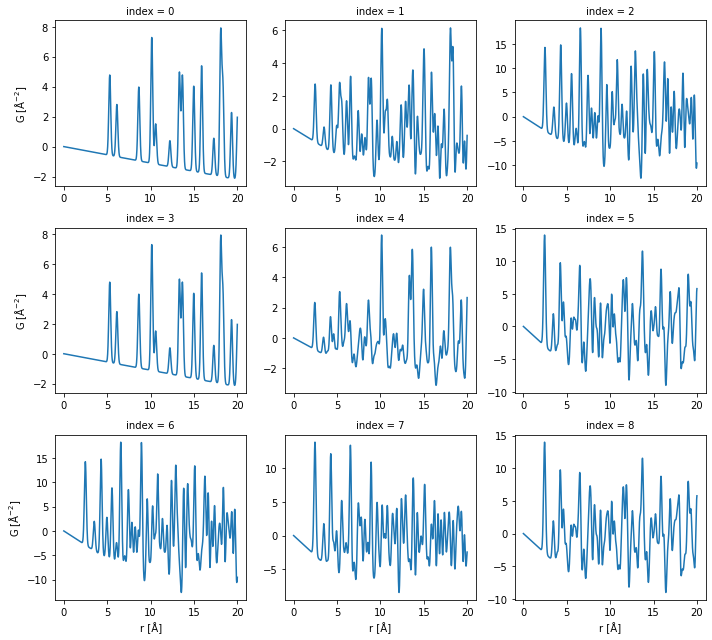
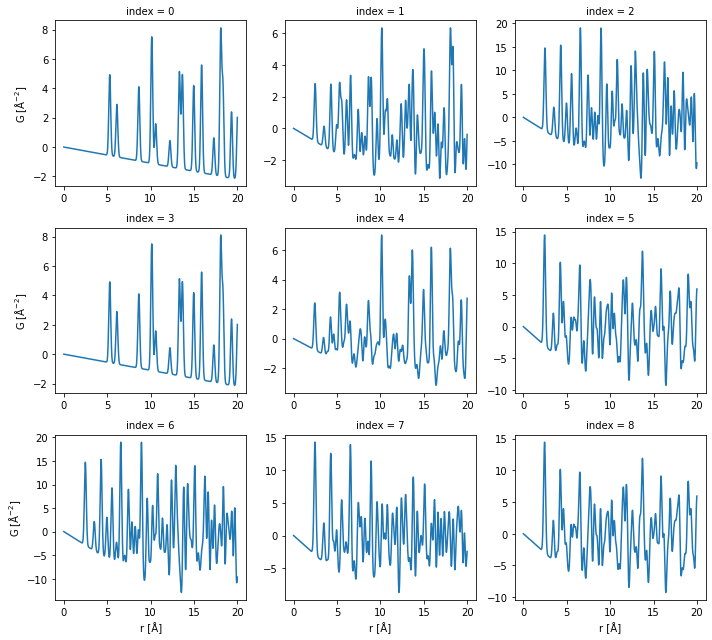
deploy: 479079cbdf4f4bb80774868c18505b342394726d

diff --git a/usage_cli.html b/usage_cli.html
@@ -7,7 +7,7 @@
   
   <meta name="viewport" content="width=device-width, initial-scale=1.0" />
   
-  <title>Usage of the CLI &mdash; PDFmix 0.post1+g3d44a29 documentation</title>
+  <title>Usage of the CLI &mdash; PDFmix 0.post1+g479079c documentation</title>
   
 
   
@@ -71,7 +71,7 @@
             
             
               <div class="version">
-                0.post1+g3d44a29
+                0.post1+g479079c
               </div>
             
           
@@ -230,7 +230,7 @@ single phase PDF calculation.</p>
  <span class="s1">&#39;delta2&#39;</span><span class="p">:</span> <span class="p">[</span><span class="mf">0.0</span><span class="p">],</span>
  <span class="s1">&#39;fracs&#39;</span><span class="p">:</span> <span class="p">[[</span><span class="mf">1.0</span><span class="p">]],</span>
  <span class="s1">&#39;ftype&#39;</span><span class="p">:</span> <span class="s1">&#39;molar&#39;</span><span class="p">,</span>
- <span class="s1">&#39;iso_adp&#39;</span><span class="p">:</span> <span class="p">[</span><span class="mf">0.5</span><span class="p">],</span>
+ <span class="s1">&#39;iso_adp&#39;</span><span class="p">:</span> <span class="p">[</span><span class="mf">0.006</span><span class="p">],</span>
  <span class="s1">&#39;lat_scale&#39;</span><span class="p">:</span> <span class="p">[</span><span class="mf">1.0</span><span class="p">],</span>
  <span class="s1">&#39;qbroad&#39;</span><span class="p">:</span> <span class="p">[</span><span class="mf">0.0</span><span class="p">],</span>
  <span class="s1">&#39;qdamp&#39;</span><span class="p">:</span> <span class="p">[</span><span class="mf">0.0</span><span class="p">],</span>
@@ -304,11 +304,11 @@ single phase PDF calculation.</p>
 <p>The line below shows how to calculate PDFs from a folder “./cifs” of CIF
 files using the default configuration and save the results in the
 “./pdfs1” folder.</p>
-<div class="highlight-ipython3 notranslate"><div class="highlight"><pre><span></span><span class="o">!</span> pdfmix create <span class="s2">&quot;./pdfs1&quot;</span> <span class="s2">&quot;./cifs&quot;</span>
+<div class="highlight-ipython3 notranslate"><div class="highlight"><pre><span></span><span class="o">!</span> pdfmix create <span class="s2">&quot;./pdfs1&quot;</span> <span class="s2">&quot;./cifs&quot;</span> --iso_adp<span class="o">=</span><span class="s2">&quot;[0.006]&quot;</span>
 </pre></div>
 </div>
 <div class="highlight-default notranslate"><div class="highlight"><pre><span></span>Find 3 files in the input directory. Choose 1 files to create a mixture phase. For each mixture, there are 1 sets of fractions, 1 structure parameter sets, 1 calculation parameter sets. In total, there are 3 PDFs to calculate.
-Progress: 100%|███████████████████████████████████| 3/3 [00:00&lt;00:00,  3.49it/s]
+Progress: 100%|███████████████████████████████████| 3/3 [00:00&lt;00:00,  7.03it/s]
 </pre></div>
 </div>
 <p>The line below lists the generated PDF data files. There are three
@@ -333,11 +333,11 @@ Coordinates:
   * r          (r) float64 0.0 0.01 0.02 0.03 0.04 ... 19.96 19.97 19.98 19.99
   * phase      (phase) int32 0
 Data variables:
-    G          (r) float64 0.0 -0.001102 -0.002204 ... 1.565 1.769 1.957
+    G          (r) float64 0.0 -0.001102 -0.002204 ... 1.611 1.825 2.021
     structure  (phase) object &quot;# generated using pymatgenndata_Csn_symmetry...
     fname      (phase) object 'Cs'
     fraction   (phase) float64 1.0
-    iso_adp    float64 0.5
+    iso_adp    float64 0.006
     lat_scale  float64 1.0
     rmin       float64 0.0
     rmax       float64 20.0
@@ -378,7 +378,7 @@ PDF. Then, there should be 9 PDF calculated in total.</p>
 </pre></div>
 </div>
 <div class="highlight-default notranslate"><div class="highlight"><pre><span></span>Find 3 files in the input directory. Choose 2 files to create a mixture phase. For each mixture, there are 3 sets of fractions, 1 structure parameter sets, 1 calculation parameter sets. In total, there are 9 PDFs to calculate.
-Progress: 100%|███████████████████████████████████| 9/9 [00:02&lt;00:00,  4.26it/s]
+Progress: 100%|███████████████████████████████████| 9/9 [00:01&lt;00:00,  8.52it/s]
 </pre></div>
 </div>
 <p>Here, we show the PDFs. Each row is a combination of phase and each
@@ -406,11 +406,11 @@ different sets of molar fractions and for each set, we will use
 different “is_adp” and “qmax”. There are two “iso_adp” and two “qmax” to
 use. In total, we will have 2 <span class="math notranslate nohighlight">\(\times\)</span> 2 <span class="math notranslate nohighlight">\(\times\)</span> 2 = 8
 PDFs.</p>
-<div class="highlight-ipython3 notranslate"><div class="highlight"><pre><span></span><span class="o">!</span> pdfmix create <span class="s2">&quot;./pdfs3&quot;</span> <span class="s2">&quot;./cifs&quot;</span> --fracs<span class="o">=</span><span class="s2">&quot;[[0.2,0.6,0.2],[0.4,0.2,0.4]]&quot;</span> --iso_adp<span class="o">=</span><span class="s2">&quot;[0.4,1.6]&quot;</span> --qmax<span class="o">=</span><span class="s2">&quot;[20.0,40.0]&quot;</span>
+<div class="highlight-ipython3 notranslate"><div class="highlight"><pre><span></span><span class="o">!</span> pdfmix create <span class="s2">&quot;./pdfs3&quot;</span> <span class="s2">&quot;./cifs&quot;</span> --fracs<span class="o">=</span><span class="s2">&quot;[[0.2,0.6,0.2],[0.4,0.2,0.4]]&quot;</span> --iso_adp<span class="o">=</span><span class="s2">&quot;[0.004,0.036]&quot;</span> --qmax<span class="o">=</span><span class="s2">&quot;[20.0,40.0]&quot;</span>
 </pre></div>
 </div>
 <div class="highlight-default notranslate"><div class="highlight"><pre><span></span>Find 3 files in the input directory. Choose 3 files to create a mixture phase. For each mixture, there are 2 sets of fractions, 2 structure parameter sets, 2 calculation parameter sets. In total, there are 8 PDFs to calculate.
-Progress: 100%|███████████████████████████████████| 8/8 [00:05&lt;00:00,  1.55it/s]
+Progress: 100%|███████████████████████████████████| 8/8 [00:01&lt;00:00,  6.04it/s]
 </pre></div>
 </div>
 <p>Here, we show the PDFs. One row is the a combination of molar fractions.
@@ -444,7 +444,7 @@ inside to create our own configuration.</p>
 <span class="o">-</span> <span class="o">-</span> <span class="mf">1.0</span>
 <span class="n">ftype</span><span class="p">:</span> <span class="n">molar</span>
 <span class="n">iso_adp</span><span class="p">:</span>
-<span class="o">-</span> <span class="mf">0.5</span>
+<span class="o">-</span> <span class="mf">0.006</span>
 <span class="n">lat_scale</span><span class="p">:</span>
 <span class="o">-</span> <span class="mf">1.0</span>
 <span class="n">rmin</span><span class="p">:</span>
@@ -473,7 +473,7 @@ command. Here, in this example, we didn’t change any parameters.</p>
 </pre></div>
 </div>
 <div class="highlight-default notranslate"><div class="highlight"><pre><span></span>Find 3 files in the input directory. Choose 1 files to create a mixture phase. For each mixture, there are 1 sets of fractions, 1 structure parameter sets, 1 calculation parameter sets. In total, there are 3 PDFs to calculate.
-Progress: 100%|███████████████████████████████████| 3/3 [00:00&lt;00:00,  6.80it/s]
+Progress: 100%|███████████████████████████████████| 3/3 [00:00&lt;00:00,  8.78it/s]
 </pre></div>
 </div>
 <p>As we expect, the results are the same as the first run we made in the

diff --git a/searchindex.js b/searchindex.js
@@ -1,1 +1,1 @@
-Search.setIndex({docnames:["index","installation","min_versions","usage_cli"],envversion:{"sphinx.domains.c":2,"sphinx.domains.changeset":1,"sphinx.domains.citation":1,"sphinx.domains.cpp":4,"sphinx.domains.index":1,"sphinx.domains.javascript":2,"sphinx.domains.math":2,"sphinx.domains.python":3,"sphinx.domains.rst":2,"sphinx.domains.std":2,"sphinx.ext.intersphinx":1,"sphinx.ext.viewcode":1,sphinx:56},filenames:["index.rst","installation.rst","min_versions.rst","usage_cli.rst"],objects:{},objnames:{},objtypes:{},terms:{"0":3,"00":3,"001102":3,"002204":3,"01":3,"02":3,"03":3,"04":3,"05":3,"0m":3,"1":3,"100":3,"19":3,"1m":3,"1mdescript":3,"1mflag":3,"1mname":3,"1mnote":3,"1mposit":3,"1msynopsi":3,"2":[2,3],"20":3,"2000":3,"24":2,"26it":3,"29":2,"3":[2,3],"4":3,"40":3,"42":2,"49it":3,"4mconfig_fil":3,"4minput_directori":3,"4minput_pattern":3,"4moutput_directori":3,"4moutput_pattern":3,"5":3,"55it":3,"565":3,"6":3,"769":3,"8":3,"80it":3,"9":3,"957":3,"96":3,"97":3,"98":3,"99":3,"case":0,"default":3,"function":3,"import":3,"long":3,A:3,As:3,At:[1,3],For:3,If:3,In:3,One:3,The:[2,3],Then:3,There:3,Theses:3,To:3,accept:3,accord:3,add:3,addit:3,adjust:2,all:[2,3],also:3,alwai:2,an:3,ani:3,ar:3,argument:3,artifact:2,assum:3,bash:3,becaus:3,below:3,binari:2,built:2,calcul:3,can:3,cat:3,certain:3,chang:3,choos:3,cif:3,cli:0,coeffici:3,col:3,col_wrap:3,collect:3,column:3,combin:3,command:[1,3],concat:3,condit:3,config_fil:3,configur:0,consist:2,contain:3,coordin:3,core:3,correspond:3,creat:0,crystal:3,cs:3,d:3,data:3,dataset:3,date:2,defin:3,delet:3,delta1:3,delta2:3,demonstr:3,didn:3,differ:0,dim:3,dimens:3,directori:3,don:3,done:3,ds0:3,ds:3,dump:3,each:3,everi:2,exampl:3,expect:3,fals:3,fe:3,file:0,find:3,first:3,flag:3,float64:3,fname:3,folder:3,format:3,four:3,frac:3,fraction:3,from:3,ftype:3,g:3,gener:3,get:3,give:3,glob:3,have:[2,3],here:3,higher:2,how:3,i:3,inconveni:3,index:3,individu:3,initi:2,input_directori:3,input_pattern:3,insid:3,instal:0,int32:3,interfac:3,introduct:0,is_adp:3,iso_adp:3,kei:3,know:3,lat_scal:3,latest:2,layer:3,least:2,line:[1,3],linear:3,list:3,load:3,load_dataset:3,locat:3,loop:3,ls:3,made:3,major:2,matrix:2,mean:3,minimum:0,minor:2,mixtur:0,modul:3,molar:3,month:2,multipl:3,name:3,nc:3,nep:2,netcdf:3,never:2,ni:3,none:3,number:3,numpi:0,object:3,oldest:2,onc:3,one:3,onli:3,our:3,output_pattern:3,own:3,pair:3,paramet:0,patch:2,path:3,pattern:3,pdf:0,pdfmix:[1,3],pdfs1:3,pdfs2:3,pdfs3:3,pdfs4:3,phase:0,pip:1,plan:2,plot:3,posit:3,print:3,prior:2,prioriti:3,progress:3,project:2,provid:3,pymatgenndata_csn_symmetri:3,python:[0,3],python_requir:2,qbroad:3,qdamp:3,qmax:3,qmin:3,r:3,rang:3,read:3,releas:2,result:3,rmax:3,rmin:3,row:3,rstep:3,run:3,s:3,same:3,save:3,search:3,set:[2,3],setup:2,sharei:3,sharex:3,shell:3,should:[2,3],show:3,simpl:3,singl:0,so:3,sourc:3,specifi:3,start:3,still:3,store:3,string:3,structur:3,style:3,support:2,syntax:3,t:3,test:2,thei:3,thi:[2,3],three:3,time:3,togeth:3,total:3,two:3,type:3,updat:3,upward:2,us:0,usag:0,user:3,valu:3,variabl:3,verbos:3,version:0,visual:3,we:3,what:3,where:3,which:3,whichev:2,write:3,xarrai:3,xr:3,yaml:3,you:3},titles:["PDFmix Documentation","Installation","Minimum Version of Python and NumPy","Usage of the CLI"],titleterms:{"case":3,cli:3,configur:3,creat:3,differ:3,document:0,file:3,help:3,input:3,instal:1,introduct:3,minimum:2,mixtur:3,numpi:2,output:3,paramet:3,pdf:3,pdfmix:0,phase:3,python:2,simul:3,singl:3,us:3,usag:3,version:2}})
+Search.setIndex({docnames:["index","installation","min_versions","usage_cli"],envversion:{"sphinx.domains.c":2,"sphinx.domains.changeset":1,"sphinx.domains.citation":1,"sphinx.domains.cpp":4,"sphinx.domains.index":1,"sphinx.domains.javascript":2,"sphinx.domains.math":2,"sphinx.domains.python":3,"sphinx.domains.rst":2,"sphinx.domains.std":2,"sphinx.ext.intersphinx":1,"sphinx.ext.viewcode":1,sphinx:56},filenames:["index.rst","installation.rst","min_versions.rst","usage_cli.rst"],objects:{},objnames:{},objtypes:{},terms:{"0":3,"00":3,"001102":3,"002204":3,"004":3,"006":3,"01":3,"02":3,"021":3,"03":3,"036":3,"03it":3,"04":3,"04it":3,"0m":3,"1":3,"100":3,"19":3,"1m":3,"1mdescript":3,"1mflag":3,"1mname":3,"1mnote":3,"1mposit":3,"1msynopsi":3,"2":[2,3],"20":3,"2000":3,"24":2,"29":2,"3":[2,3],"4":3,"40":3,"42":2,"4mconfig_fil":3,"4minput_directori":3,"4minput_pattern":3,"4moutput_directori":3,"4moutput_pattern":3,"5":3,"52it":3,"6":3,"611":3,"7":3,"78it":3,"8":3,"825":3,"9":3,"96":3,"97":3,"98":3,"99":3,"case":0,"default":3,"function":3,"import":3,"long":3,A:3,As:3,At:[1,3],For:3,If:3,In:3,One:3,The:[2,3],Then:3,There:3,Theses:3,To:3,accept:3,accord:3,add:3,addit:3,adjust:2,all:[2,3],also:3,alwai:2,an:3,ani:3,ar:3,argument:3,artifact:2,assum:3,bash:3,becaus:3,below:3,binari:2,built:2,calcul:3,can:3,cat:3,certain:3,chang:3,choos:3,cif:3,cli:0,coeffici:3,col:3,col_wrap:3,collect:3,column:3,combin:3,command:[1,3],concat:3,condit:3,config_fil:3,configur:0,consist:2,contain:3,coordin:3,core:3,correspond:3,creat:0,crystal:3,cs:3,d:3,data:3,dataset:3,date:2,defin:3,delet:3,delta1:3,delta2:3,demonstr:3,didn:3,differ:0,dim:3,dimens:3,directori:3,don:3,done:3,ds0:3,ds:3,dump:3,each:3,everi:2,exampl:3,expect:3,fals:3,fe:3,file:0,find:3,first:3,flag:3,float64:3,fname:3,folder:3,format:3,four:3,frac:3,fraction:3,from:3,ftype:3,g:3,gener:3,get:3,give:3,glob:3,have:[2,3],here:3,higher:2,how:3,i:3,inconveni:3,index:3,individu:3,initi:2,input_directori:3,input_pattern:3,insid:3,instal:0,int32:3,interfac:3,introduct:0,is_adp:3,iso_adp:3,kei:3,know:3,lat_scal:3,latest:2,layer:3,least:2,line:[1,3],linear:3,list:3,load:3,load_dataset:3,locat:3,loop:3,ls:3,made:3,major:2,matrix:2,mean:3,minimum:0,minor:2,mixtur:0,modul:3,molar:3,month:2,multipl:3,name:3,nc:3,nep:2,netcdf:3,never:2,ni:3,none:3,number:3,numpi:0,object:3,oldest:2,onc:3,one:3,onli:3,our:3,output_pattern:3,own:3,pair:3,paramet:0,patch:2,path:3,pattern:3,pdf:0,pdfmix:[1,3],pdfs1:3,pdfs2:3,pdfs3:3,pdfs4:3,phase:0,pip:1,plan:2,plot:3,posit:3,print:3,prior:2,prioriti:3,progress:3,project:2,provid:3,pymatgenndata_csn_symmetri:3,python:[0,3],python_requir:2,qbroad:3,qdamp:3,qmax:3,qmin:3,r:3,rang:3,read:3,releas:2,result:3,rmax:3,rmin:3,row:3,rstep:3,run:3,s:3,same:3,save:3,search:3,set:[2,3],setup:2,sharei:3,sharex:3,shell:3,should:[2,3],show:3,simpl:3,singl:0,so:3,sourc:3,specifi:3,start:3,still:3,store:3,string:3,structur:3,style:3,support:2,syntax:3,t:3,test:2,thei:3,thi:[2,3],three:3,time:3,togeth:3,total:3,two:3,type:3,updat:3,upward:2,us:0,usag:0,user:3,valu:3,variabl:3,verbos:3,version:0,visual:3,we:3,what:3,where:3,which:3,whichev:2,write:3,xarrai:3,xr:3,yaml:3,you:3},titles:["PDFmix Documentation","Installation","Minimum Version of Python and NumPy","Usage of the CLI"],titleterms:{"case":3,cli:3,configur:3,creat:3,differ:3,document:0,file:3,help:3,input:3,instal:1,introduct:3,minimum:2,mixtur:3,numpi:2,output:3,paramet:3,pdf:3,pdfmix:0,phase:3,python:2,simul:3,singl:3,us:3,usag:3,version:2}})

diff --git a/min_versions.html b/min_versions.html
@@ -7,7 +7,7 @@
   
   <meta name="viewport" content="width=device-width, initial-scale=1.0" />
   
-  <title>Minimum Version of Python and NumPy &mdash; PDFmix 0.post1+g3d44a29 documentation</title>
+  <title>Minimum Version of Python and NumPy &mdash; PDFmix 0.post1+g479079c documentation</title>
   
 
   
@@ -69,7 +69,7 @@
             
             
               <div class="version">
-                0.post1+g3d44a29
+                0.post1+g479079c
               </div>
             
           

diff --git a/index.html b/index.html
@@ -7,7 +7,7 @@
   
   <meta name="viewport" content="width=device-width, initial-scale=1.0" />
   
-  <title>PDFmix Documentation &mdash; PDFmix 0.post1+g3d44a29 documentation</title>
+  <title>PDFmix Documentation &mdash; PDFmix 0.post1+g479079c documentation</title>
   
 
   
@@ -69,7 +69,7 @@
             
             
               <div class="version">
-                0.post1+g3d44a29
+                0.post1+g479079c
               </div>
             
           

diff --git a/installation.html b/installation.html
@@ -7,7 +7,7 @@
   
   <meta name="viewport" content="width=device-width, initial-scale=1.0" />
   
-  <title>Installation &mdash; PDFmix 0.post1+g3d44a29 documentation</title>
+  <title>Installation &mdash; PDFmix 0.post1+g479079c documentation</title>
   
 
   
@@ -70,7 +70,7 @@
             
             
               <div class="version">
-                0.post1+g3d44a29
+                0.post1+g479079c
               </div>
             
           

diff --git a/search.html b/search.html
@@ -7,7 +7,7 @@
   
   <meta name="viewport" content="width=device-width, initial-scale=1.0" />
   
-  <title>Search &mdash; PDFmix 0.post1+g3d44a29 documentation</title>
+  <title>Search &mdash; PDFmix 0.post1+g479079c documentation</title>
   
 
   
@@ -71,7 +71,7 @@
             
             
               <div class="version">
-                0.post1+g3d44a29
+                0.post1+g479079c
               </div>
             
           

diff --git a/genindex.html b/genindex.html
@@ -7,7 +7,7 @@
   
   <meta name="viewport" content="width=device-width, initial-scale=1.0" />
   
-  <title>Index &mdash; PDFmix 0.post1+g3d44a29 documentation</title>
+  <title>Index &mdash; PDFmix 0.post1+g479079c documentation</title>
   
 
   
@@ -68,7 +68,7 @@
             
             
               <div class="version">
-                0.post1+g3d44a29
+                0.post1+g479079c
               </div>
             
           

diff --git a/_static/documentation_options.js b/_static/documentation_options.js
@@ -1,6 +1,6 @@
 var DOCUMENTATION_OPTIONS = {
     URL_ROOT: document.getElementById("documentation_options").getAttribute('data-url_root'),
-    VERSION: '0.post1+g3d44a29',
+    VERSION: '0.post1+g479079c',
     LANGUAGE: 'None',
     COLLAPSE_INDEX: false,
     BUILDER: 'html',
